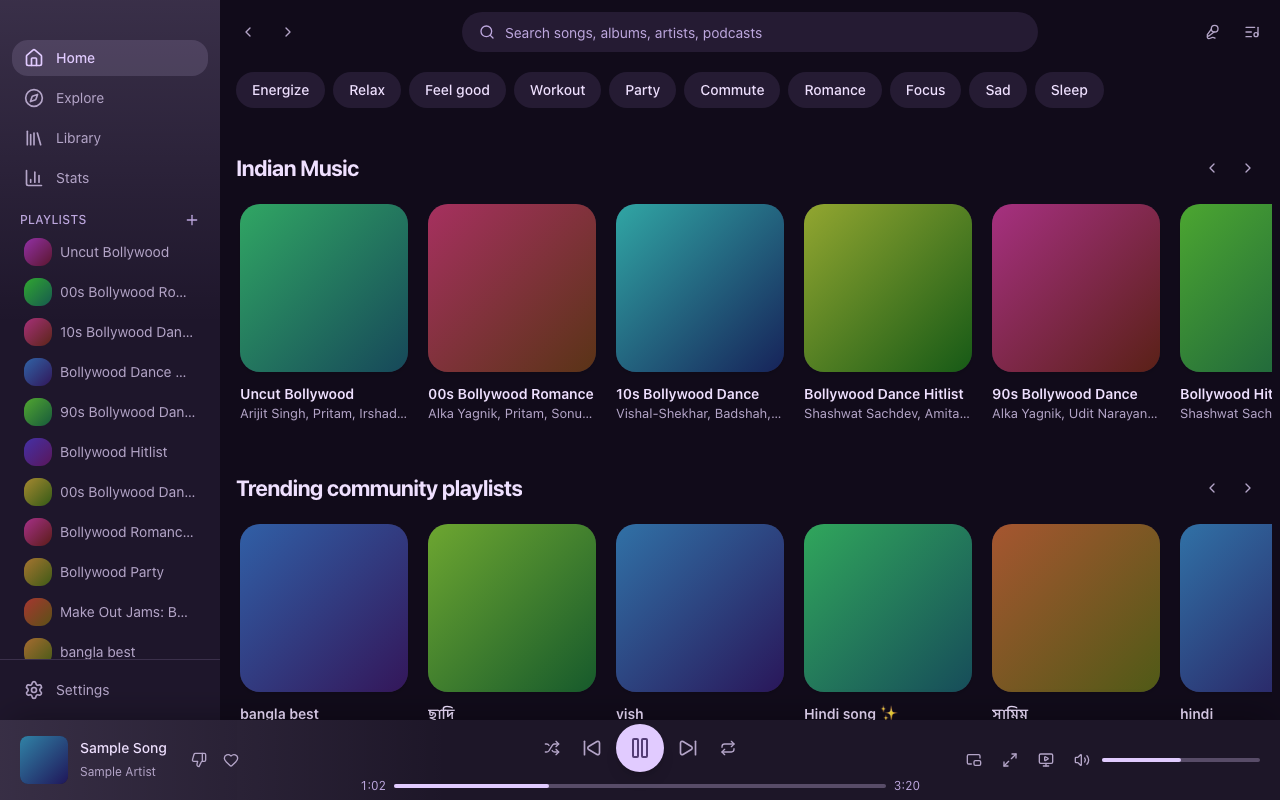
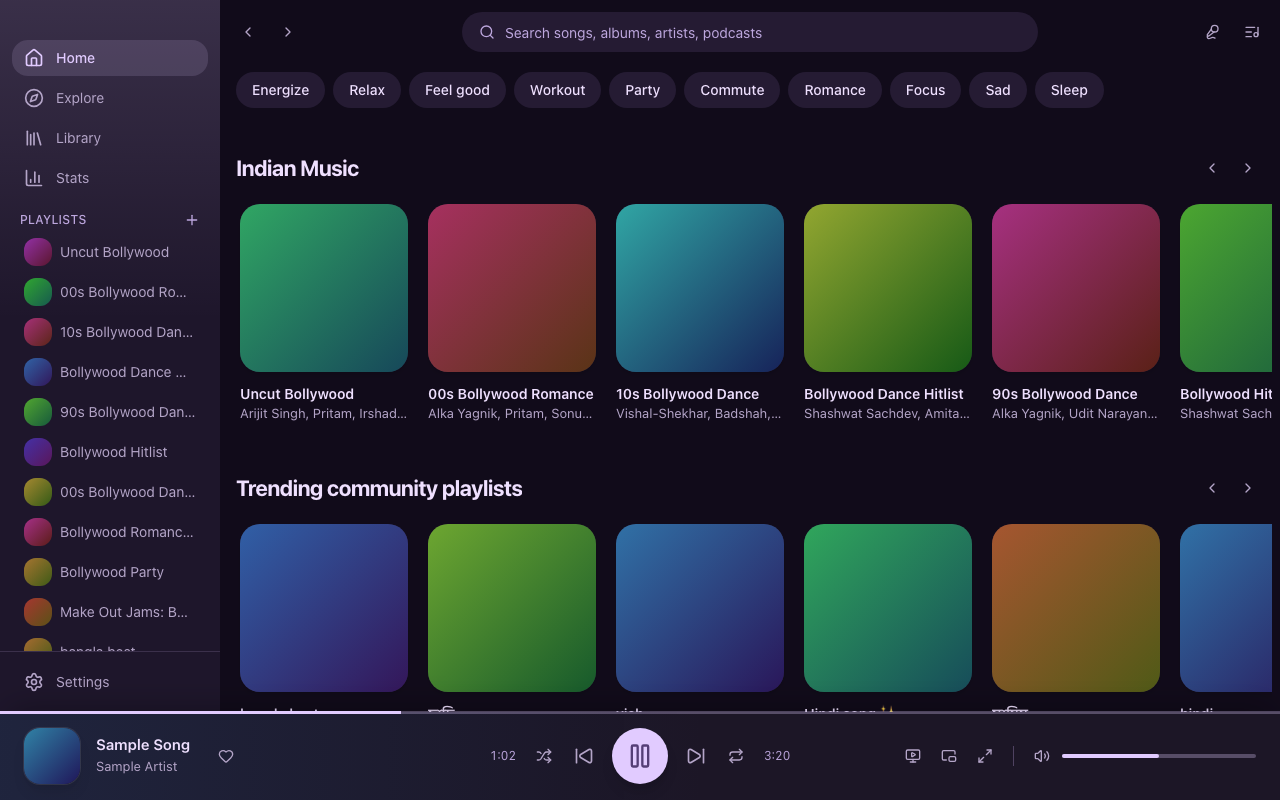
style: modern player bar
An edge-to-edge hairline progress line runs along the top of the bar and thickens
on hover, elapsed and total time flank larger controls with a big accent play
button, active shuffle and repeat get a dot, the cover is bigger, the dislike
button appears on hover, and a faint wash tinted from the album art fades between
songs. The position now lives in two small components instead of re-rendering the
whole bar every animation frame while a song plays.

Changed region(s): [[0.0, 0.8125, 1.0, 1.0], [0.7188, 0.9375, 1.0, 0.9688]]

diff --git a/apps/desktop/src/app/PlayerBar.tsx b/apps/desktop/src/app/PlayerBar.tsx
@@ -15,11 +15,11 @@ import {
   Maximize2,
   PictureInPicture2,
 } from 'lucide-react';
-import { useEffect, useState } from 'react';
+import { create } from 'zustand';
+import type { CSSProperties } from 'react';
 import { useNavigate } from 'react-router';
 import { run } from '../data/innertube';
 import { queryClient } from '../data/queryClient';
-import { requests } from '@melodesk/adapter';
 import { useT } from '../i18n';
 import { sendCommand } from '../player/ipc';
 import { usePlayerStore } from '../player/store';
@@ -27,6 +27,8 @@ import { toast } from './toast';
 import { useUiStore } from './uiStore';
 import { invoke } from '@tauri-apps/api/core';
 import { CachedImg } from '../artwork/CachedImg';
+import { useArtworkColor } from '../appearance/artworkAccent';
+import { usePositionMs } from '../player/usePositionMs';
 
 function fmt(seconds: number): string {
   const s = Math.max(0, Math.floor(seconds));
@@ -34,28 +36,6 @@ function fmt(seconds: number): string {
   const m = Math.floor((s % 3600) / 60);
   const sec = String(s % 60).padStart(2, '0');
   return h > 0 ? `${String(h)}:${String(m).padStart(2, '0')}:${sec}` : `${String(m)}:${sec}`;
-}
-
-/** Interpolates position between bridge samples so the seek bar moves at 60 fps, not 2 fps. */
-function useInterpolatedPosition(): number {
-  const state = usePlayerStore((s) => s.state);
-  const [now, setNow] = useState(() => Date.now());
-  useEffect(() => {
-    if (!state?.playing) return;
-    let raf = 0;
-    const loop = (): void => {
-      setNow(Date.now());
-      raf = requestAnimationFrame(loop);
-    };
-    raf = requestAnimationFrame(loop);
-    return () => {
-      cancelAnimationFrame(raf);
-    };
-  }, [state?.playing]);
-  if (!state) return 0;
-  if (!state.playing) return state.position;
-  const elapsed = Math.max(0, now - state.sampledAt) / 1000;
-  return Math.min(state.duration || Infinity, state.position + elapsed);
 }
 
 export function PlayerBar() {
@@ -67,13 +47,11 @@ export function PlayerBar() {
   const queue = usePlayerStore((s) => s.queue);
   const flags = usePlayerStore((s) => s.flags);
   const loggedIn = usePlayerStore((s) => s.loggedIn);
-  const position = useInterpolatedPosition();
-  const [scrub, setScrub] = useState<number | null>(null);
+  const artRgb = useArtworkColor(track?.artworkUrl ?? null);
   const openNowPlaying = useUiStore((s) => s.setNowPlayingOpen);
 
   const disabled = !ready || !state || !track;
   const playing = state?.playing ?? false;
-  const duration = state?.duration ?? 0;
   const volume = state?.volume ?? 1;
   const muted = state?.muted ?? false;
   const like = flags?.likeStatus ?? null;
@@ -98,37 +76,47 @@ export function PlayerBar() {
     );
   };
 
+  const dot =
+    'relative after:absolute after:bottom-0.5 after:left-1/2 after:size-1 after:-translate-x-1/2 after:rounded-full after:bg-accent';
+  const tint = {
+    '--bar-tint': artRgb
+      ? `rgb(${artRgb.map((c) => String(Math.round(c))).join(' ')})`
+      : 'var(--color-accent)',
+  } as CSSProperties;
+
   return (
     <footer
       aria-label={t('player.region')}
-      className="grid h-20 grid-cols-[minmax(0,1fr)_minmax(0,2fr)_minmax(0,1fr)] items-center gap-4 bg-bg-elevated/85 bg-[image:linear-gradient(to_right,var(--color-accent-soft),transparent_35%)] px-5 shadow-[0_-12px_32px_-12px_rgb(0_0_0/0.35)] backdrop-blur-xl"
+      style={tint}
+      className="player-bar group/bar relative grid h-[88px] grid-cols-[minmax(0,1fr)_minmax(0,1.3fr)_minmax(0,1fr)] items-center gap-6 bg-bg-elevated/80 bg-[image:linear-gradient(to_right,color-mix(in_srgb,var(--bar-tint)_26%,transparent),transparent_55%)] px-6 shadow-[0_-12px_32px_-12px_rgb(0_0_0/0.35)] backdrop-blur-xl"
     >
-      <div className="flex min-w-0 items-center gap-3">
+      <SeekLine disabled={disabled} />
+      <div className="flex min-w-0 items-center gap-4">
         {track?.artworkUrl ? (
           <Tooltip label={t('player.openNowPlaying')}>
             <button
               type="button"
               aria-label={t('player.openNowPlaying')}
               onClick={() => openNowPlaying(true)}
-              className="shrink-0 rounded-sm focus-visible:outline-2 focus-visible:outline-accent"
+              className="shrink-0 rounded-lg shadow-lg ring-1 ring-white/10 transition-transform duration-200 hover:scale-105 focus-visible:outline-2 focus-visible:outline-accent"
             >
               <CachedImg
                 src={track.artworkUrl}
                 alt=""
-                className="size-12 rounded-sm bg-bg-overlay object-cover"
+                className="size-14 rounded-lg bg-bg-overlay object-cover"
               />
             </button>
           </Tooltip>
         ) : (
-          <div className="size-12 shrink-0 rounded-sm bg-bg-overlay" />
+          <div className="size-14 shrink-0 rounded-lg bg-bg-overlay" />
         )}
         <div className="min-w-0">
-          <div className="truncate text-sm font-medium">
+          <div className="truncate text-[15px] leading-tight font-semibold">
             {track?.title ?? t('player.nothingPlaying')}
           </div>
           <button
             type="button"
-            className="max-w-full truncate text-xs text-fg-muted hover:underline"
+            className="mt-0.5 max-w-full truncate text-[13px] text-fg-muted hover:text-fg hover:underline"
             onClick={() =>
               track &&
               navigate(`/search?q=${encodeURIComponent(track.artist.split(' • ')[0] ?? '')}`)
@@ -138,14 +126,7 @@ export function PlayerBar() {
           </button>
         </div>
         {track && (
-          <div className="ms-1 flex items-center">
-            <IconButton
-              label={like === 'DISLIKE' ? t('player.removeDislike') : t('player.dislike')}
-              size="sm"
-              onClick={() => void setLike(like === 'DISLIKE' ? 'INDIFFERENT' : 'DISLIKE')}
-            >
-              <ThumbsDown className={cn(like === 'DISLIKE' && 'fill-current')} />
-            </IconButton>
+          <div className="ms-1 flex shrink-0 items-center">
             <IconButton
               label={like === 'LIKE' ? t('player.removeLike') : t('player.like')}
               size="sm"
@@ -153,18 +134,31 @@ export function PlayerBar() {
             >
               <Heart className={cn(like === 'LIKE' && 'fill-current text-accent')} />
             </IconButton>
+            <IconButton
+              label={like === 'DISLIKE' ? t('player.removeDislike') : t('player.dislike')}
+              size="sm"
+              className={cn(
+                'transition-opacity',
+                like !== 'DISLIKE' &&
+                  'opacity-0 group-hover/bar:opacity-100 focus-visible:opacity-100',
+              )}
+              onClick={() => void setLike(like === 'DISLIKE' ? 'INDIFFERENT' : 'DISLIKE')}
+            >
+              <ThumbsDown className={cn(like === 'DISLIKE' && 'fill-current')} />
+            </IconButton>
           </div>
         )}
       </div>
 
-      <div className="flex flex-col items-center gap-1">
-        <div dir="ltr" className="flex items-center gap-1">
+      <div dir="ltr" className="flex items-center justify-center gap-3">
+        <TimeLabel kind="elapsed" className="text-right" />
+        <div className="flex items-center gap-1">
           <IconButton
             label={queue?.shuffle ? t('player.shuffleOn') : t('player.shuffle')}
             size="sm"
             disabled={disabled}
             aria-pressed={queue?.shuffle ?? false}
-            className={cn(queue?.shuffle && 'text-accent')}
+            className={cn(queue?.shuffle && ['text-accent', dot])}
             onClick={() =>
               void sendCommand({ type: 'setShuffle', enabled: !(queue?.shuffle ?? false) })
             }
@@ -181,8 +175,8 @@ export function PlayerBar() {
           <IconButton
             label={playing ? t('player.pause') : t('player.play')}
             variant="solid"
-            size="lg"
-            className="shadow-lg hover:scale-105"
+            size="xl"
+            className="mx-1 shadow-lg hover:scale-105"
             disabled={disabled}
             onClick={() => void sendCommand({ type: 'toggle' })}
           >
@@ -206,7 +200,7 @@ export function PlayerBar() {
             size="sm"
             disabled={disabled}
             aria-pressed={(queue?.repeat ?? 'off') !== 'off'}
-            className={cn(queue?.repeat && queue.repeat !== 'off' && 'text-accent')}
+            className={cn(queue?.repeat && queue.repeat !== 'off' && ['text-accent', dot])}
             onClick={() =>
               void sendCommand({
                 type: 'setRepeat',
@@ -222,29 +216,23 @@ export function PlayerBar() {
             {queue?.repeat === 'one' ? <Repeat1 /> : <Repeat />}
           </IconButton>
         </div>
-        <div
-          dir="ltr"
-          className="flex w-full max-w-xl items-center gap-2 text-xs tabular-nums text-fg-subtle"
-        >
-          <span className="w-10 text-right">{fmt(scrub ?? position)}</span>
-          <Slider
-            label={t('player.seek')}
-            valueLabel={fmt}
-            value={scrub ?? position}
-            max={duration}
-            step={0.5}
-            disabled={disabled || duration === 0}
-            onChange={setScrub}
-            onCommit={(v) => {
-              setScrub(null);
-              void sendCommand({ type: 'seek', seconds: v });
-            }}
-          />
-          <span className="w-10">{fmt(duration)}</span>
-        </div>
+        <TimeLabel kind="total" />
       </div>
 
       <div className="flex items-center justify-end gap-1">
+        {track && (
+          <IconButton
+            label={flags?.isVideo ? t('player.switchToSong') : t('player.switchToVideo')}
+            size="sm"
+            aria-pressed={flags?.isVideo ?? false}
+            className={cn(flags?.isVideo && 'text-accent')}
+            onClick={() =>
+              void sendCommand({ type: 'setVideoMode', video: !(flags?.isVideo ?? false) })
+            }
+          >
+            <MonitorPlay />
+          </IconButton>
+        )}
         <IconButton
           label={t('player.miniPlayer')}
           size="sm"
@@ -260,19 +248,7 @@ export function PlayerBar() {
         >
           <Maximize2 />
         </IconButton>
-        {track && (
-          <IconButton
-            label={flags?.isVideo ? t('player.switchToSong') : t('player.switchToVideo')}
-            size="sm"
-            aria-pressed={flags?.isVideo ?? false}
-            className={cn(flags?.isVideo && 'text-accent')}
-            onClick={() =>
-              void sendCommand({ type: 'setVideoMode', video: !(flags?.isVideo ?? false) })
-            }
-          >
-            <MonitorPlay />
-          </IconButton>
-        )}
+        <span aria-hidden className="mx-2 h-5 w-px bg-border" />
         <IconButton
           label={muted ? t('player.unmute') : t('player.mute')}
           size="sm"
@@ -296,4 +272,45 @@ export function PlayerBar() {
   );
 }
 
-export { requests };
+/** The value being dragged on the seek line, shared so the time labels follow it. */
+const useScrub = create<{ value: number | null }>(() => ({ value: null }));
+
+/** Edge-to-edge progress line along the top of the bar; thickens on hover. */
+function SeekLine({ disabled }: { disabled: boolean }) {
+  const t = useT();
+  const duration = usePlayerStore((s) => s.state?.duration ?? 0);
+  const positionS = usePositionMs(120) / 1000;
+  const scrub = useScrub((s) => s.value);
+  return (
+    <div className="absolute inset-x-0 top-0 z-10 -translate-y-1/2">
+      <Slider
+        variant="line"
+        label={t('player.seek')}
+        valueLabel={fmt}
+        value={scrub ?? (duration ? Math.min(positionS, duration) : 0)}
+        max={duration}
+        step={0.5}
+        disabled={disabled || duration === 0}
+        onChange={(v) => useScrub.setState({ value: v })}
+        onCommit={(v) => {
+          useScrub.setState({ value: null });
+          void sendCommand({ type: 'seek', seconds: v });
+        }}
+      />
+    </div>
+  );
+}
+
+/** Elapsed or total time. Only this re-renders as the song plays, not the whole bar. */
+function TimeLabel({ kind, className }: { kind: 'elapsed' | 'total'; className?: string }) {
+  const duration = usePlayerStore((s) => s.state?.duration ?? 0);
+  const positionS = usePositionMs(250) / 1000;
+  const scrub = useScrub((s) => s.value);
+  const seconds =
+    kind === 'total' ? duration : (scrub ?? Math.min(positionS, duration || positionS));
+  return (
+    <span className={cn('w-11 text-xs tabular-nums text-fg-subtle', className)}>
+      {fmt(seconds)}
+    </span>
+  );
+}

diff --git a/packages/ui/src/components/Slider.tsx b/packages/ui/src/components/Slider.tsx
@@ -4,6 +4,8 @@ import { Tooltip } from './Tooltip';
 
 export interface SliderProps {
   label: string;
+  /** `line` is a hairline edge-to-edge progress bar that thickens on hover (the player's seek bar). */
+  variant?: 'default' | 'line';
   /** Shown after the label in the tooltip, e.g. "50%" or "1:02". */
   valueLabel?: (value: number) => string;
   value: number;
@@ -18,6 +20,7 @@ export interface SliderProps {
 
 export function Slider({
   label,
+  variant = 'default',
   valueLabel,
   value,
   max,
@@ -33,7 +36,8 @@ export function Slider({
         data-slider-root=""
         dir="ltr"
         className={cn(
-          'group relative flex h-5 w-full touch-none items-center select-none',
+          'group relative flex w-full touch-none items-center select-none',
+          variant === 'line' ? 'h-4' : 'h-5',
           className,
         )}
         value={[Math.min(value, max)]}
@@ -47,8 +51,18 @@ export function Slider({
           if (v[0] !== undefined) onCommit?.(v[0]);
         }}
       >
-        <RadixSlider.Track className="relative h-1 grow rounded-full bg-accent-muted transition-[height] duration-150 group-hover:h-1.5">
-          <RadixSlider.Range className="absolute h-full rounded-full bg-accent group-hover:brightness-110" />
+        <RadixSlider.Track
+          className={cn(
+            'relative grow bg-accent-muted transition-[height] duration-150',
+            variant === 'line' ? 'h-[3px] group-hover:h-1.5' : 'h-1 rounded-full group-hover:h-1.5',
+          )}
+        >
+          <RadixSlider.Range
+            className={cn(
+              'absolute h-full bg-accent group-hover:brightness-110',
+              variant !== 'line' && 'rounded-full',
+            )}
+          />
         </RadixSlider.Track>
         <RadixSlider.Thumb
           aria-label={label}

diff --git a/packages/ui/src/components/IconButton.tsx b/packages/ui/src/components/IconButton.tsx
@@ -5,7 +5,7 @@ import { Tooltip } from './Tooltip';
 export interface IconButtonProps extends ButtonHTMLAttributes<HTMLButtonElement> {
   /** Required: icon buttons have no visible text. */
   label: string;
-  size?: 'sm' | 'md' | 'lg';
+  size?: 'sm' | 'md' | 'lg' | 'xl';
   variant?: 'ghost' | 'solid';
 }
 
@@ -26,6 +26,7 @@ export const IconButton = forwardRef<HTMLButtonElement, IconButtonProps>(functio
         size === 'sm' && 'size-8 [&>svg]:size-4',
         size === 'md' && 'size-10 [&>svg]:size-5',
         size === 'lg' && 'size-12 [&>svg]:size-6',
+        size === 'xl' && 'size-14 [&>svg]:size-7',
         variant === 'ghost' && 'text-fg-muted hover:bg-accent-soft hover:text-accent',
         variant === 'solid' && 'bg-accent text-accent-fg hover:brightness-110',
         className,

diff --git a/apps/desktop/src/styles.css b/apps/desktop/src/styles.css
@@ -177,3 +177,18 @@ input[type='checkbox'][role='switch']:focus-visible {
 input[type='checkbox'][role='switch']:disabled {
   opacity: 0.4;
 }
+
+/* The player bar's wash follows the album art; registering the colour lets it fade between songs. */
+@property --bar-tint {
+  syntax: '<color>';
+  inherits: true;
+  initial-value: transparent;
+}
+.player-bar {
+  transition: --bar-tint 700ms var(--ease-out);
+}
+@media (prefers-reduced-motion: reduce) {
+  .player-bar {
+    transition: none;
+  }
+}

diff --git a/apps/desktop/e2e/mock-tauri.ts b/apps/desktop/e2e/mock-tauri.ts
@@ -176,6 +176,9 @@ export async function installTauri(page: Page, opts: MockOptions = {}): Promise<
         }
         case 'get_settings':
           return settings;
+        case 'plugin:opener|open_url':
+          sent.push({ type: 'open_url', url: args['url'] });
+          return null;
         case 'set_settings':
           settings = args['settings'] as typeof settings;
           sent.push({ type: 'set_settings', settings });
